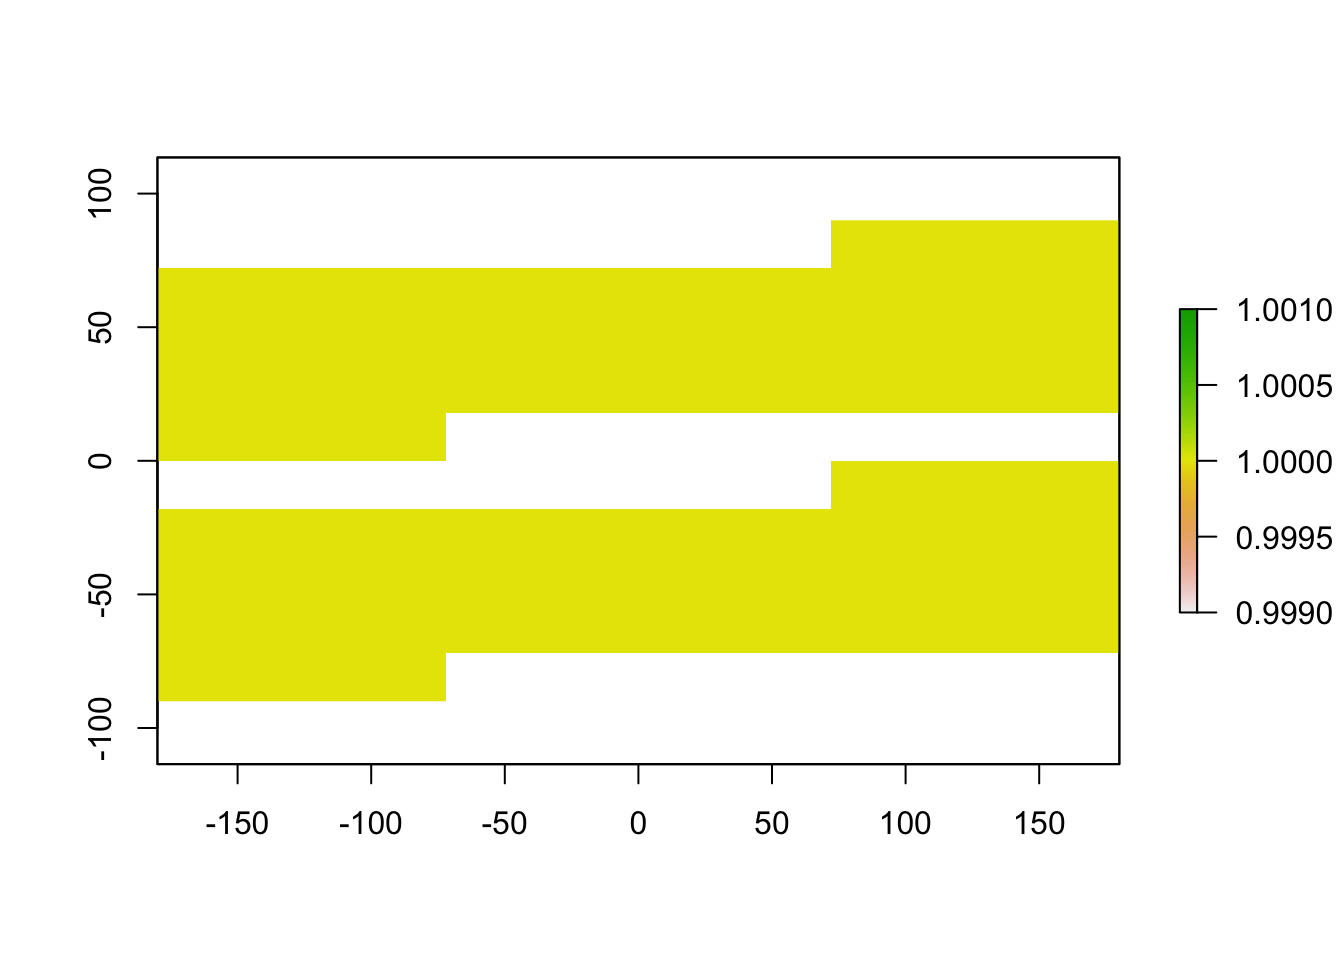
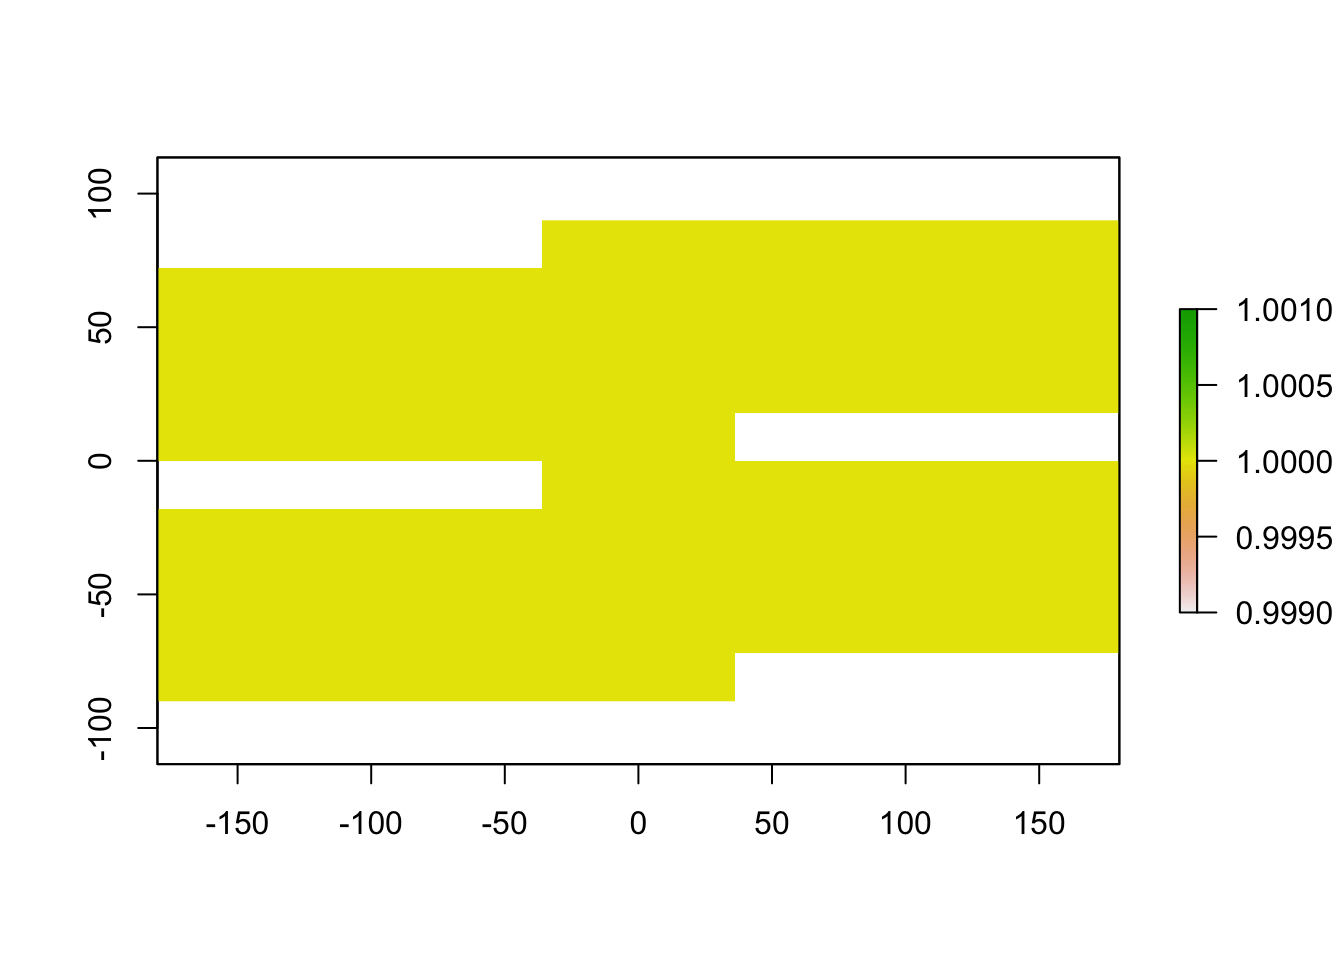
Fix projects

Changed region(s): [[0.3125, 0.4062, 0.625, 0.5312], [0.3125, 0.6562, 0.5625, 0.75], [0.4062, 0.2188, 0.625, 0.2812]]

diff --git a/content/post/2019-04-12-sdm-threshold/index.html b/content/post/2019-04-12-sdm-threshold/index.html
@@ -231,8 +231,9 @@ plot(mtp_raster)
 ## normalization available before PROJ 6.3
 
 ## Warning in doTryCatch(return(expr), name, parentenv, handler): no CRS
-## normalization available before PROJ 6.3
-
+## normalization available before PROJ 6.3</code></pre>
+<p><img src="/post/2019-04-12-sdm-threshold/index_files/figure-html/unnamed-chunk-9-1.png" width="672" /></p>
+<pre class="r"><code>
 p10_raster &lt;- raster_threshold(input_raster = raster1, points = xy, type = &quot;p10&quot;, binary = TRUE)
 ## Warning in doTryCatch(return(expr), name, parentenv, handler): no CRS
 ## normalization available before PROJ 6.3
@@ -296,7 +297,7 @@ plot(p10_raster)
 
 ## Warning in doTryCatch(return(expr), name, parentenv, handler): no CRS
 ## normalization available before PROJ 6.3</code></pre>
-<p><img src="/post/2019-04-12-sdm-threshold/index_files/figure-html/unnamed-chunk-9-1.png" width="672" /></p>
+<p><img src="/post/2019-04-12-sdm-threshold/index_files/figure-html/unnamed-chunk-9-2.png" width="672" /></p>
 <p>We can also use a user-inputted threshold to remove all parts of the raster with values lower than 20:</p>
 <pre class="r"><code>user_raster &lt;- raster_threshold(input_raster = raster1, threshold = 20)
 ## Warning in doTryCatch(return(expr), name, parentenv, handler): no CRS

diff --git a/content/home/projects.md b/content/home/projects.md
@@ -28,18 +28,7 @@ subtitle = ""
   [[content.filter_button]]
     name = "Hypervolumes"
     tag = "hypervolume"
-    
-  [[content.filter_button]]
-    name = "Life History"
-    tag = "life history"
-    
-  [[content.filter_button]]
-    name = "Species Distribution Modeling"
-    tag = "species distribution modeling"
-  
-  [[content.filter_button]]
-    name = "Other"
-    tag = "Demo"
+
 
 [design]
   # Choose how many columns the section has. Valid values: 1 or 2.
